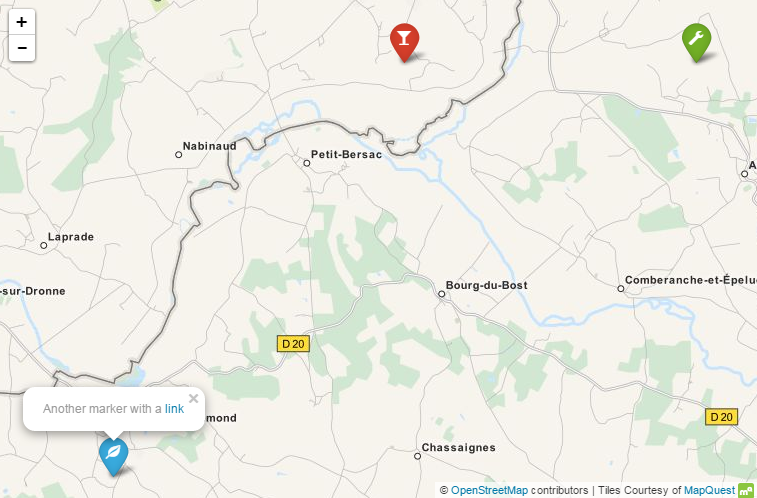
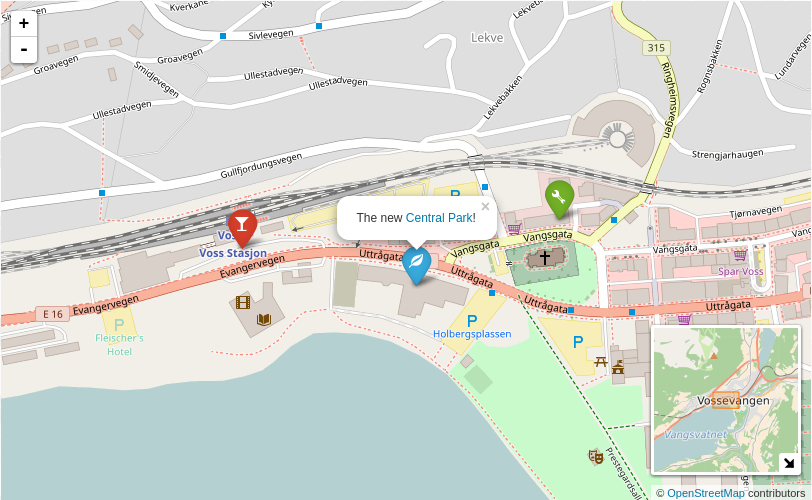
Update screenshots

diff --git a/README.md b/README.md
@@ -16,13 +16,13 @@ is used for showing an overview map.
 
 #### Example
 
-Lets create a map with the initial center of the location 50 latitude and 0
-longitude and add three markers to this map:
+Lets create a map with the initial center of the location 60.628 latitude and
+6.41 longitude and add three markers to this map:
 ```
-[cluster_map center="50,0" zoom=3 height="500px"]
-45.3,0.25,glass,red,My first marker
-45.25,0.2,leaf,blue,Another marker with a <a href="#example">link</a>
-45.3,0.3,wrench,green,My first marker
+[cluster_map center="60.628,6.41" zoom=12 height="500px"]
+60.62888,6.41035,glass,red,Beach Bar
+60.62849,6.414089,leaf,blue,The new <a href="#example">Central Park</a>!
+60.62919,6.41716,wrench,green,My first marker
 [/cluster_map]
 ```
 
